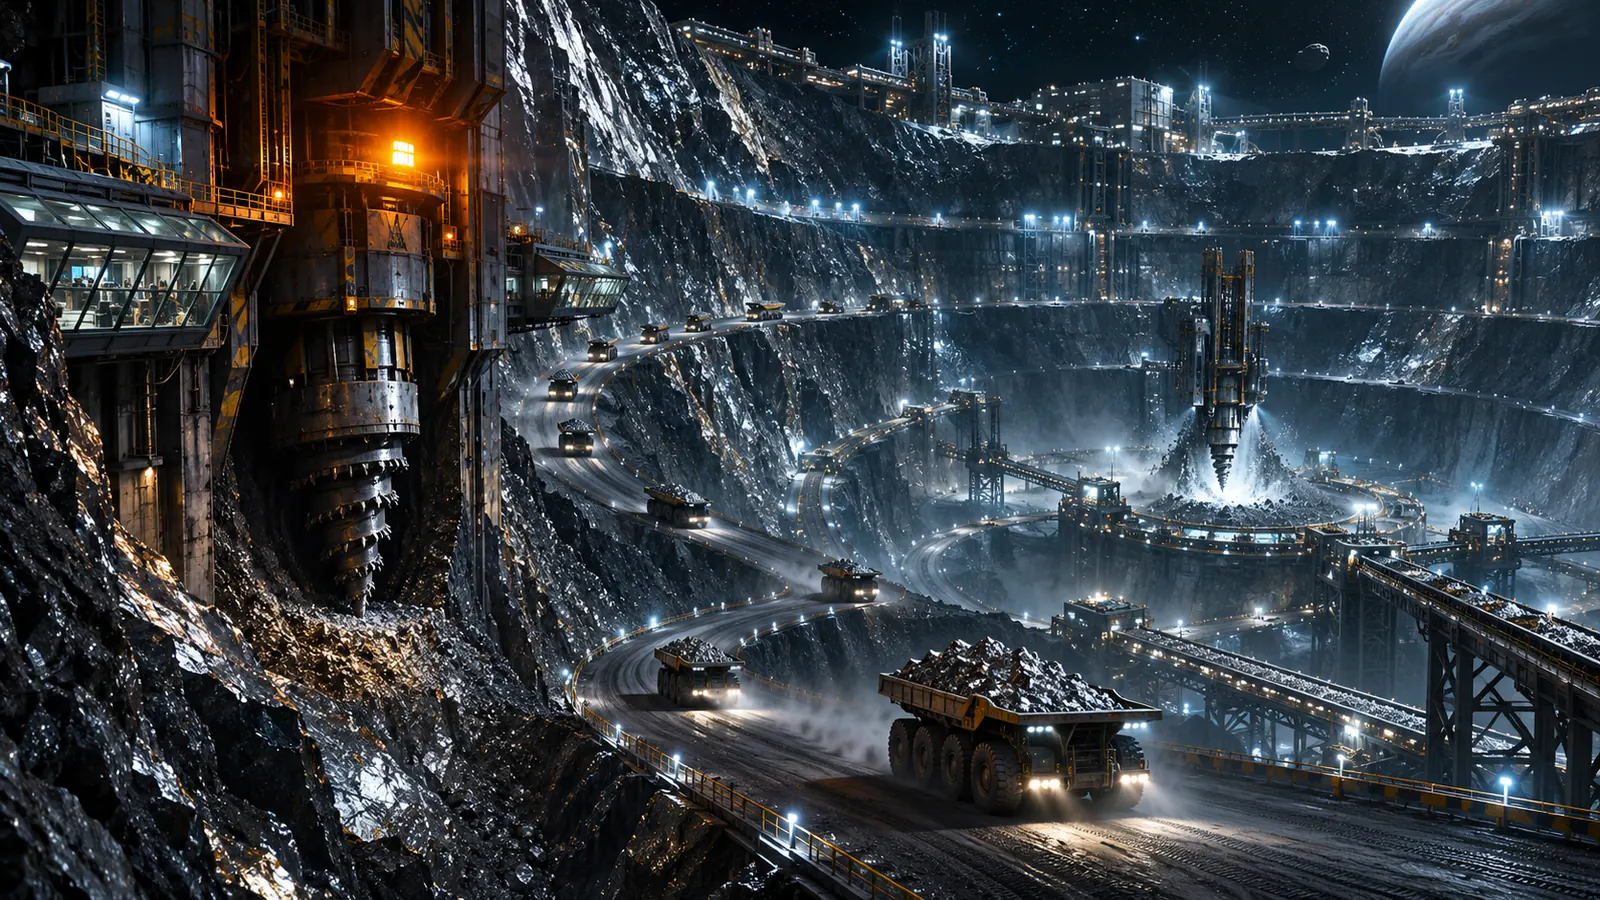
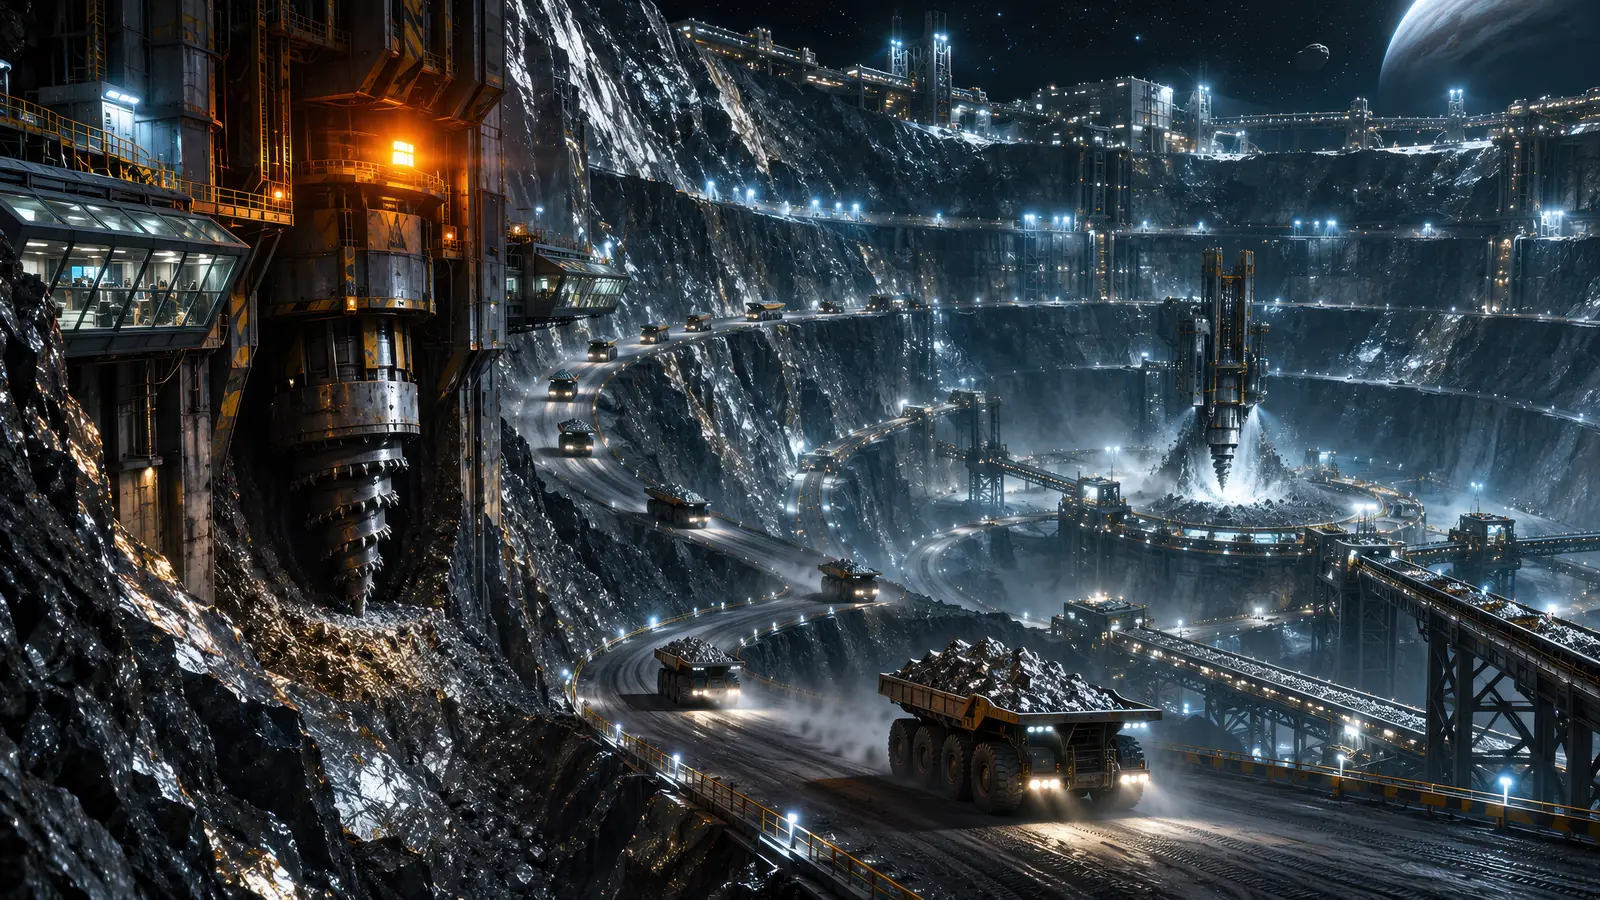
Upscaled film frames and hero, with 2880-wide copies for sharp wide screens

diff --git a/index.html b/index.html
@@ -206,7 +206,7 @@
 
   /* Closing */
   .closing { position: relative; padding: clamp(140px, 24vh, 280px) 0 clamp(120px, 18vh, 200px); text-align: center; overflow: hidden; isolation: isolate; }
-  .closing::before { content: ""; position: absolute; inset: 0; z-index: -1; background: linear-gradient(180deg, var(--void), rgb(3 5 11 / .1) 35%, rgb(3 5 11 / .2) 80%, var(--void)), url(media/closing-horizon-1920.webp) center 70% / cover; }
+  .closing::before { content: ""; position: absolute; inset: 0; z-index: -1; background: linear-gradient(180deg, var(--void), rgb(3 5 11 / .1) 35%, rgb(3 5 11 / .2) 80%, var(--void)), image-set(url(media/closing-horizon-1920.webp) 1x, url(media/closing-horizon-2880.webp) 2x) center 70% / cover; }
   .closing h2 { font-size: clamp(56px, 10vw, 160px); }
   .closing .ctas { display: flex; justify-content: center; align-items: center; flex-wrap: wrap; gap: 24px; margin-top: 44px; }
   footer { padding: 34px 0 44px; border-top: 1px solid var(--line); color: var(--muted); font-size: 13.5px; }
@@ -234,7 +234,7 @@
 <main>
 <section class="hero" aria-label="Steer">
   <canvas id="stars" aria-hidden="true"></canvas>
-  <img class="planet" id="planet" src="media/hero-planet-1920.webp" srcset="media/hero-planet-960.webp 960w, media/hero-planet-1920.webp 1920w" sizes="100vw" width="1920" height="1080" alt="" fetchpriority="high">
+  <img class="planet" id="planet" src="media/hero-planet-1920.webp" srcset="media/hero-planet-960.webp 960w, media/hero-planet-1920.webp 1920w, media/hero-planet-2880.webp 2880w" sizes="100vw" width="1920" height="1080" alt="" fetchpriority="high">
   <div class="hud tl" aria-hidden="true">Sol system · <b>7 holdings</b><br>Agents online · <b id="hudAgents">12,408</b></div>
   <div class="hud tr" aria-hidden="true">Earth · low orbit<br>Halcyon Station <b>over the Pacific</b></div>
   <div class="hud bl" aria-hidden="true"><span class="dot"></span>Kirra Station · <b>needs you</b></div>
@@ -261,7 +261,7 @@
 </section>
 
 <section class="frame" aria-label="A person seen from behind in a dark room, facing a wall of screens that show many places at once.">
-  <img src="media/the-owner-1920.webp" srcset="media/the-owner-960.webp 960w, media/the-owner-1920.webp 1920w" sizes="100vw" width="1920" height="1080" alt="A person seen from behind in a dark room, facing a wall of screens that show many places at once." loading="lazy" decoding="async">
+  <img src="media/the-owner-1920.webp" srcset="media/the-owner-960.webp 960w, media/the-owner-1920.webp 1920w, media/the-owner-2880.webp 2880w" sizes="100vw" width="1920" height="1080" alt="A person seen from behind in a dark room, facing a wall of screens that show many places at once." loading="lazy" decoding="async">
   <div class="wrap"><span class="label reveal">The owner</span><p class="reveal d1">You can’t watch it all.<br><span>So Steer watches for you.</span></p></div>
 </section>
 
@@ -284,7 +284,7 @@
 </section>
 
 <section class="frame" aria-label="Maintenance robots repairing a giant drill bearing in low gravity, sparks flying under work lights.">
-  <img src="media/maintenance-robots-1920.webp" srcset="media/maintenance-robots-900.webp 900w, media/maintenance-robots-1920.webp 1920w" sizes="100vw" width="1920" height="1080" alt="Maintenance robots repairing a giant drill bearing in low gravity, sparks flying under work lights." loading="lazy" decoding="async">
+  <img src="media/maintenance-robots-1920.webp" srcset="media/maintenance-robots-900.webp 900w, media/maintenance-robots-1920.webp 1920w, media/maintenance-robots-2880.webp 2880w" sizes="100vw" width="1920" height="1080" alt="Maintenance robots repairing a giant drill bearing in low gravity, sparks flying under work lights." loading="lazy" decoding="async">
   <div class="wrap"><span class="label reveal">Kirra Station · 03:12</span><p class="reveal d1">Drill 7 is down.<br><span>Four robots are on their way.</span></p></div>
 </section>
 
@@ -330,7 +330,7 @@
 </section>
 
 <section class="frame" aria-label="A mass driver firing an ore capsule off an asteroid toward a distant blue Earth.">
-  <img src="media/ore-launch-1920.webp" srcset="media/ore-launch-960.webp 960w, media/ore-launch-1920.webp 1920w" sizes="100vw" width="1920" height="1080" alt="A mass driver firing an ore capsule off an asteroid toward a distant blue Earth." loading="lazy" decoding="async">
+  <img src="media/ore-launch-1920.webp" srcset="media/ore-launch-960.webp 960w, media/ore-launch-1920.webp 1920w, media/ore-launch-2880.webp 2880w" sizes="100vw" width="1920" height="1080" alt="A mass driver firing an ore capsule off an asteroid toward a distant blue Earth." loading="lazy" decoding="async">
   <div class="wrap"><span class="label reveal">Ore launch KR-112</span><p class="reveal d1">4,000 tonnes.&nbsp;211&nbsp;days.<br><span>One yes, and it can’t come back.</span></p></div>
 </section>
 
